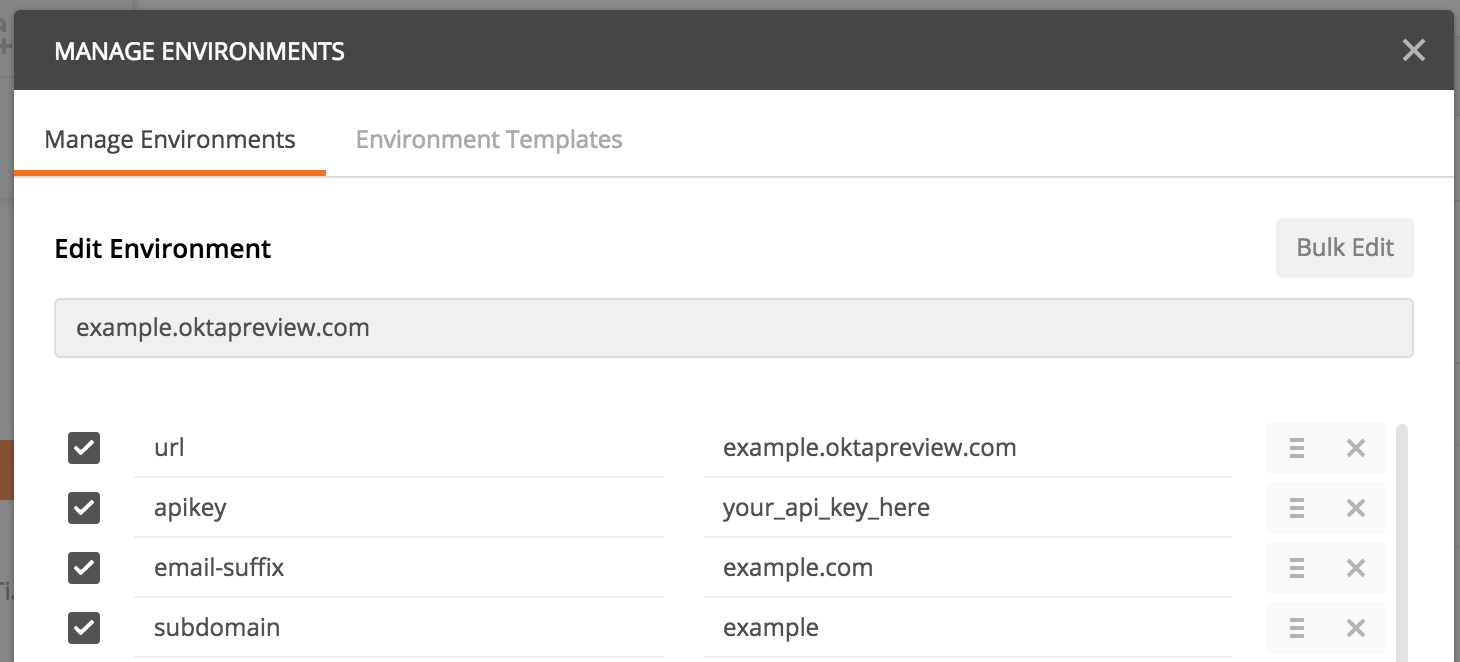
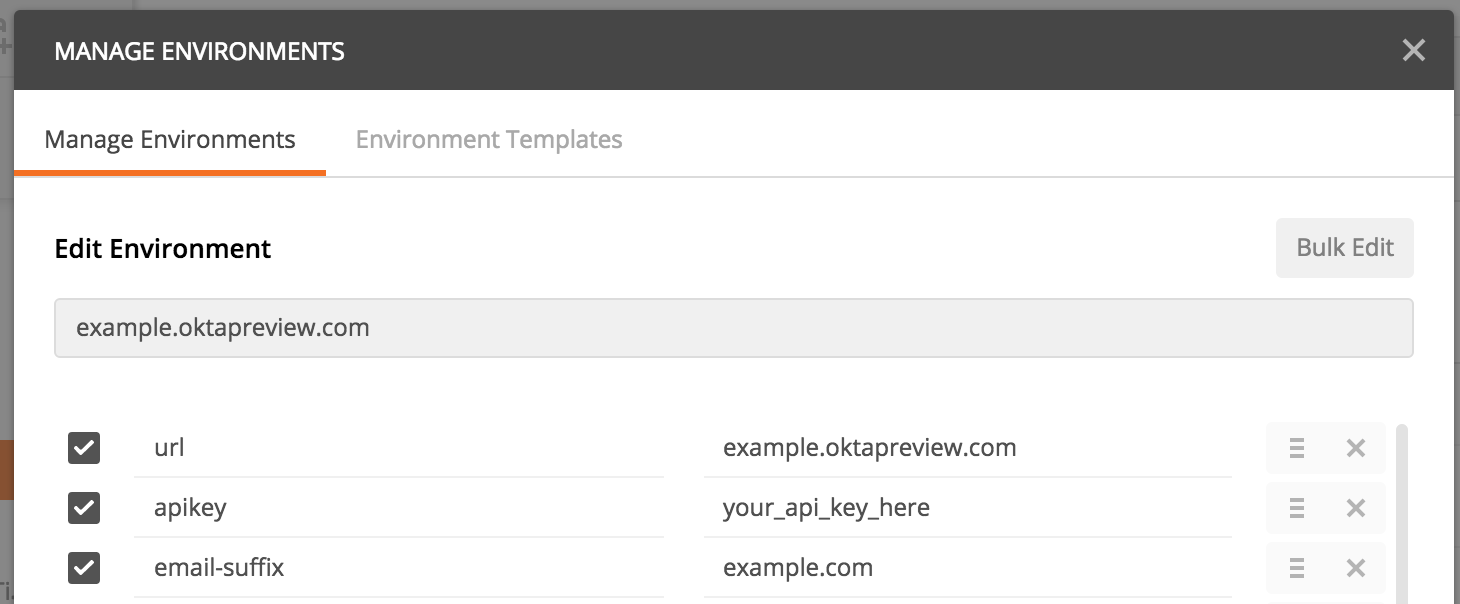
remove subdomain from postman environment
OKTA-120361
<<<Jenkins Check-In of Tested SHA: c05ba8bcc496af468a37108f5a09e820e071da67 for ci-admin@okta.com>>>
Artifact: okta.github.io

diff --git a/_source/_docs/api/getting_started/api_test_client.md b/_source/_docs/api/getting_started/api_test_client.md
@@ -28,7 +28,6 @@ To use these collections, you'll need to set up your environment, import the col
     * `url`: Replace the example value with your org's URL, for example **https://myOrg.oktapreview.com**. This becomes the new name of your environment. Do **not** include '-admin' in the subdomain.
     * `apikey`: Enter the API token you created in your org, for example **00LzMWxMq_0sdErHy9Jf1sijEGexYZlsdGr9a4QjkS**.
     * `email-suffix`: Enter the email suffix for your domain, for example **myOrg.com**.
-    * `subdomain`: Enter the subdomain, for example **myOrg**. Do **not** include '-admin' in the subdomain.
 
 6. Save your changes by selecting **Update**. Now your environment looks similar to this example:
     ![Example.okta.com environment with required values](/assets/img/postman_example_enviro.png)
